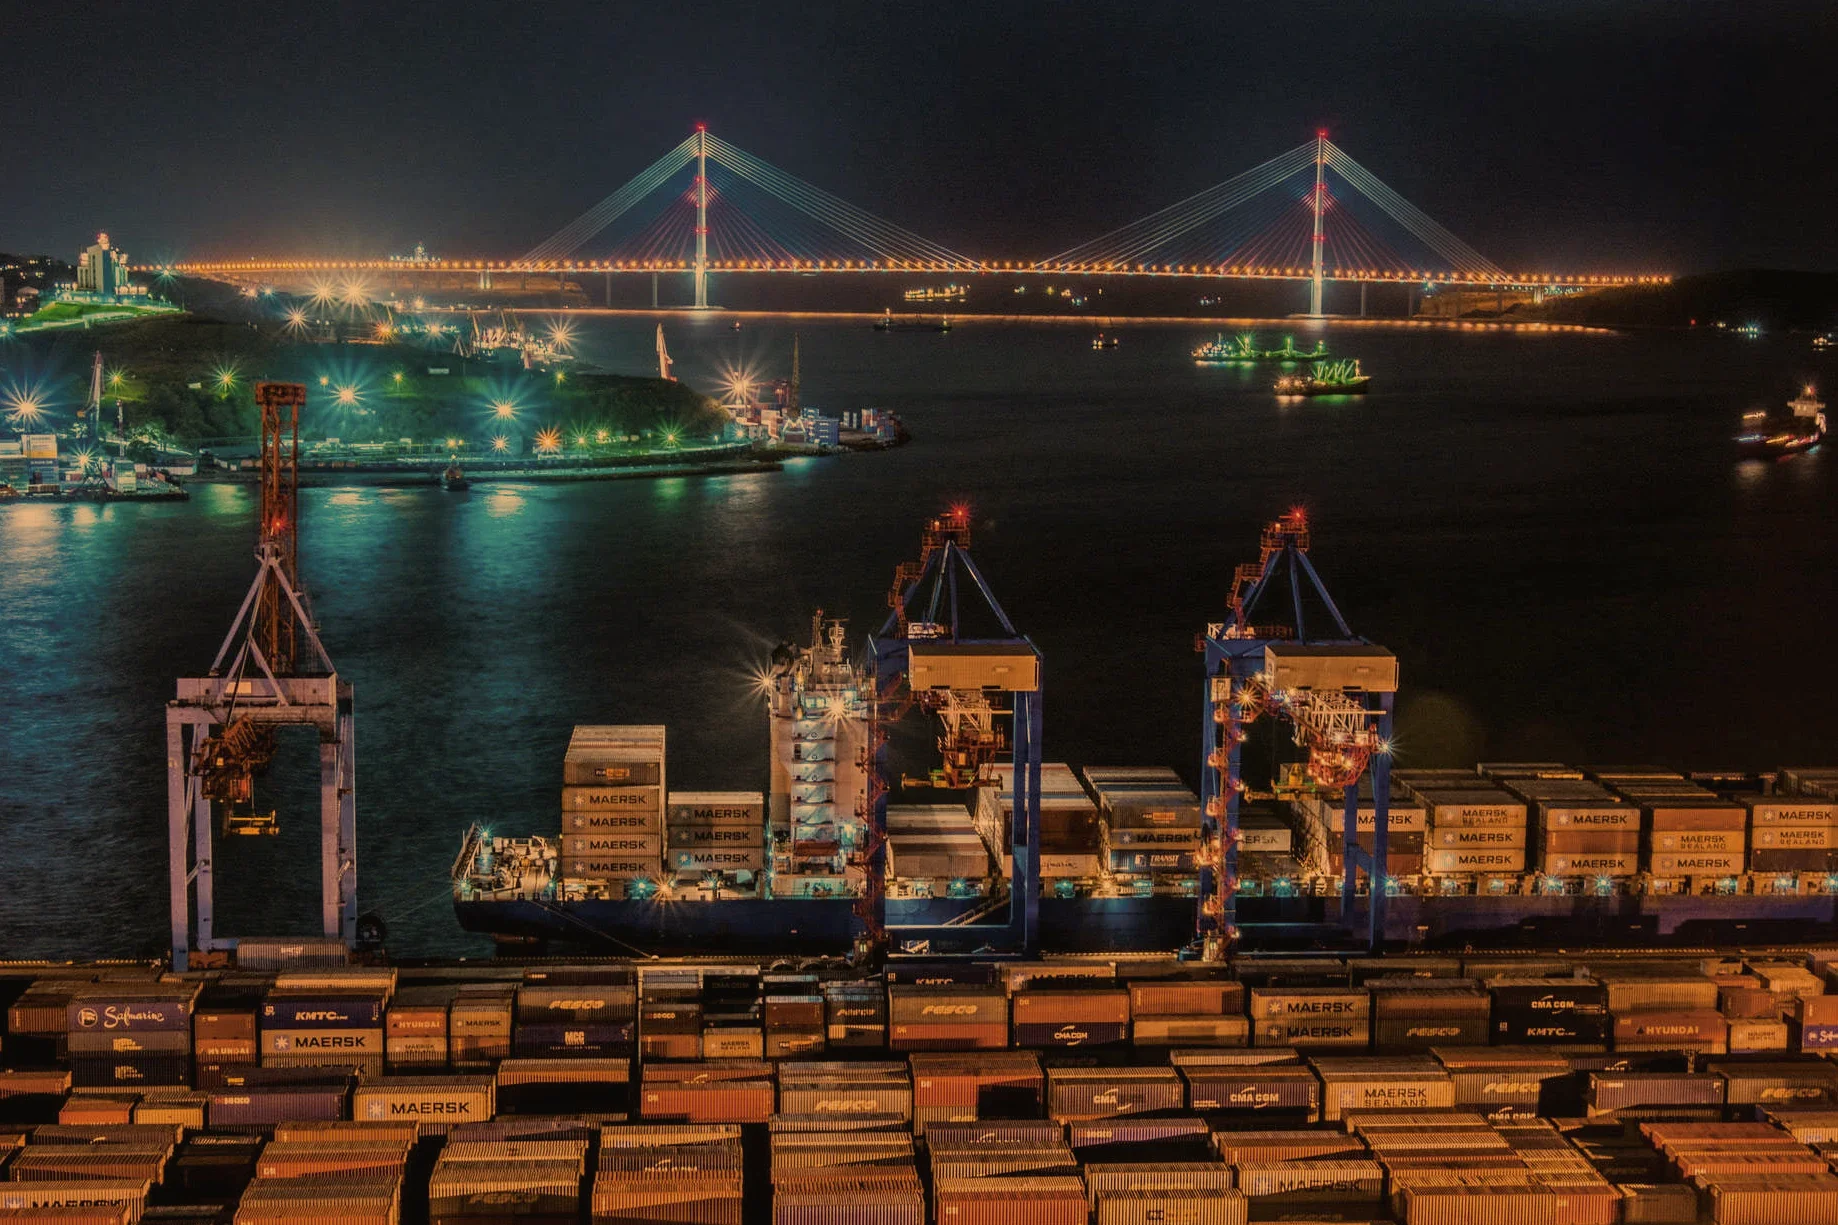
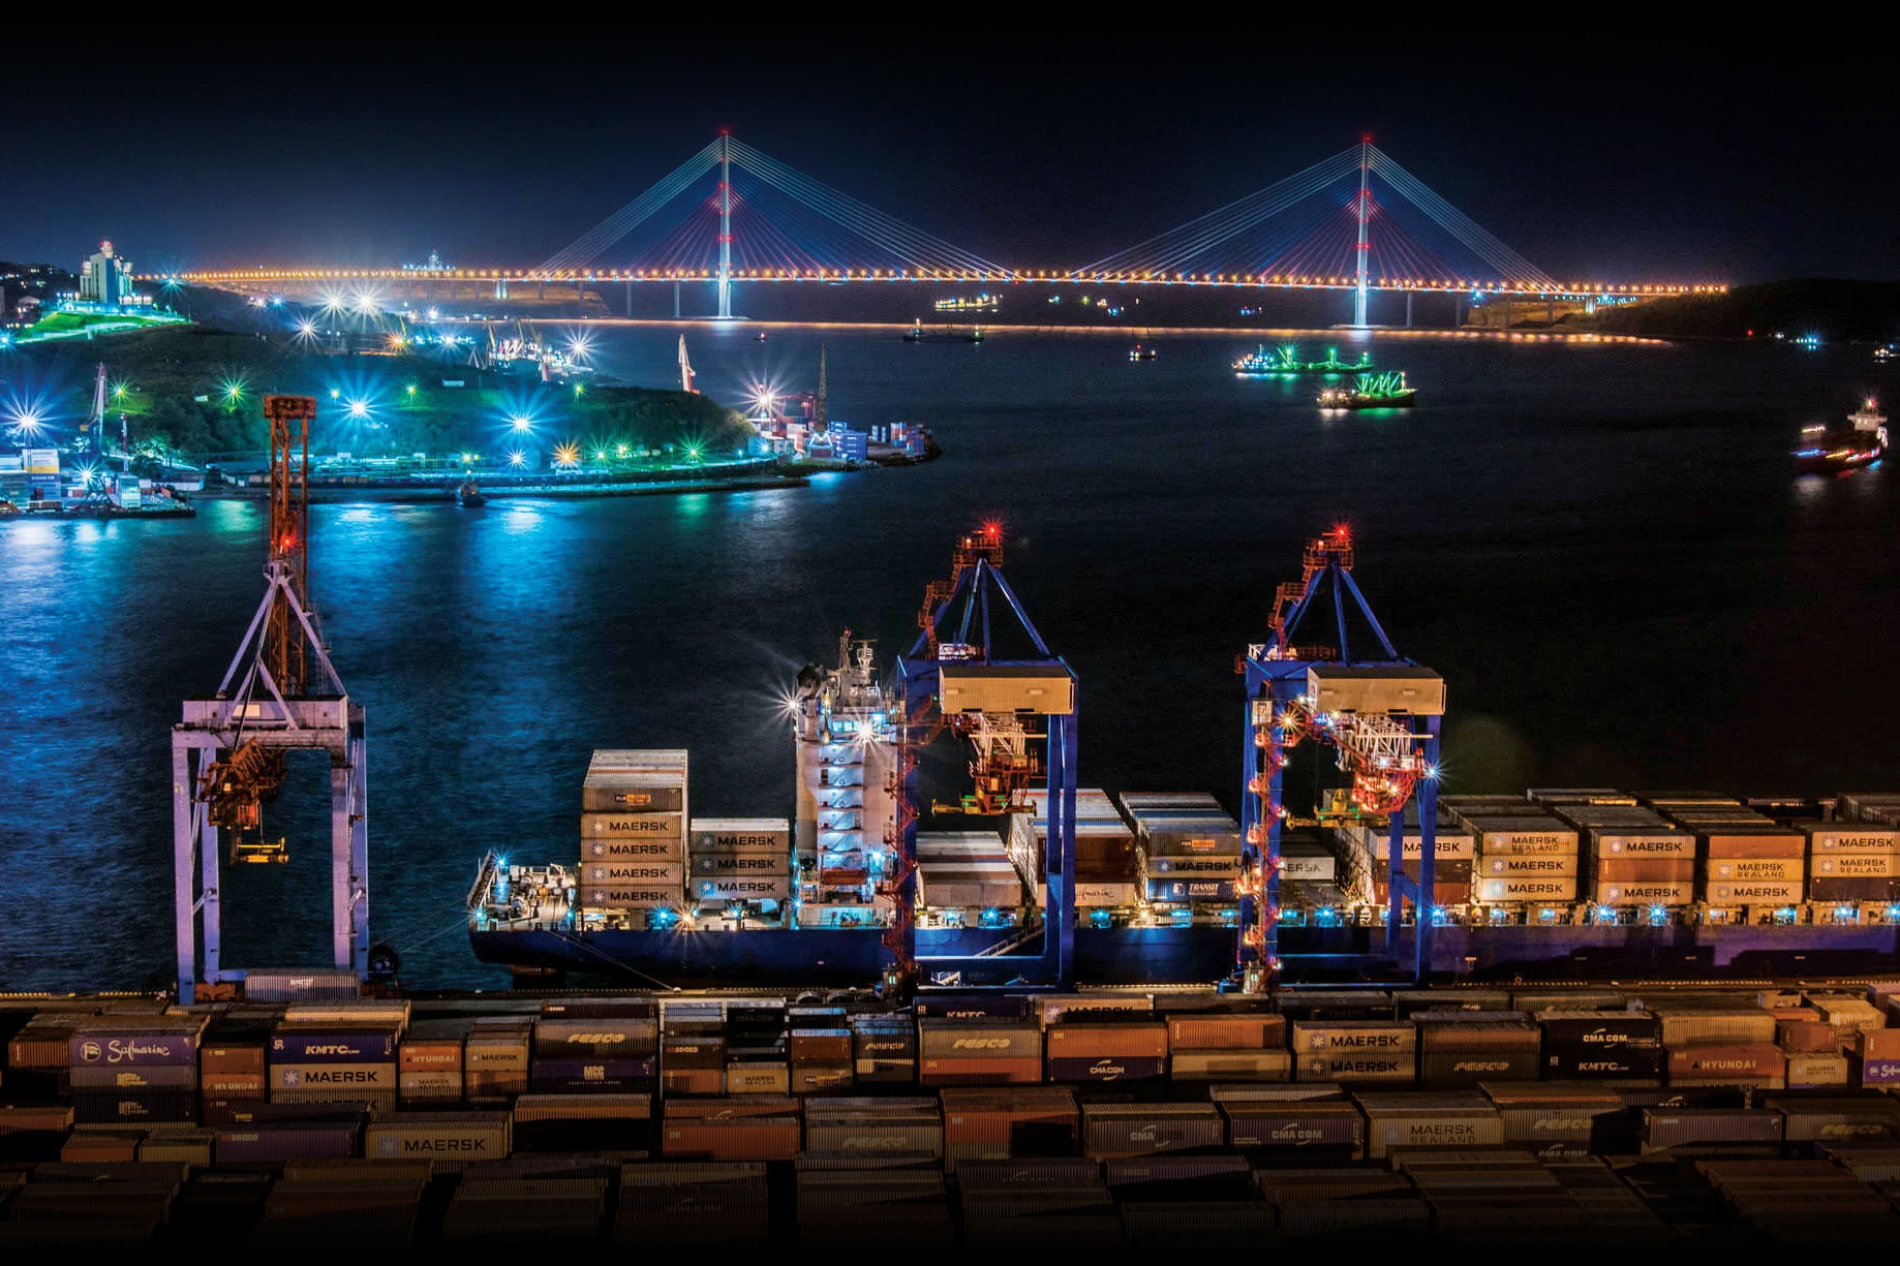
crorrection sections and all site

diff --git a/src/components/SectionWorkStages/SectionWorkStages.module.css b/src/components/SectionWorkStages/SectionWorkStages.module.css
@@ -4,6 +4,14 @@
   color: var(--white-color);
 }
 
+.background-div {
+  background-image: url('/FotoVlad.webp');
+  background-repeat: no-repeat;
+  background-position: center;
+  background-size: cover;
+  filter: saturate(85%);
+}
+
 .div-works-stages {
   display: flex;
   flex-direction: column;
@@ -11,21 +19,11 @@
   align-items: center;
 }
 
-.background-div {
-  margin-top: 150px;
-  position: absolute;
-  height: 135%;
-  min-width: 150%;
-  background: linear-gradient(to top, rgba(0, 0, 15, 0.01), rgba(0, 0, 0, 0.78)),
-    linear-gradient(to bottom, rgba(0, 0, 0, 0.01), rgba(10, 15, 20, 1)),
-    url('/public/FotoVlad.webp') center no-repeat;
-  background-size: cover;
-  filter: blur(1px);
-}
-
 .content-h2 {
   font-size: 52px;
   margin-bottom: 55px;
+  display: flex;
+  justify-content: center;
 }
 
 /*-------------------------TIMELINE-----------------------*/

diff --git a/src/components/SectionWorkStages/SectionWorkStages.tsx b/src/components/SectionWorkStages/SectionWorkStages.tsx
@@ -66,16 +66,18 @@ function SectionWorkStages() {
 
   return (
     <>
-      <section className={styles['section-works-stages']}>
+      <section
+        className={cn(styles['background-div'], styles['section-works-stages'])}
+      >
         <div
           className={cn(
             styles['div-works-stages'],
             stylesBootstrap['container-fluid']
           )}
         >
-          <h2 className={styles['content-h2']}>Этапы Работы</h2>
-          <div className={styles['background-div']}></div>
           <div className={styles['timeline']}>
+            <h2 className={styles['content-h2']}>Этапы Работы</h2>
+
             {timelineElements.map((element) => {
               return (
                 <div

diff --git a/src/components/SectionMaps/SectionMaps.tsx b/src/components/SectionMaps/SectionMaps.tsx
@@ -8,7 +8,11 @@ function SectionMaps() {
   return (
     <>
       <section
-        className={cn(stylesBootstrap['col-12'], styles['section-maps'])}
+        className={cn(
+          stylesBootstrap['col-12'],
+          styles['background-div'],
+          styles['section-maps']
+        )}
       >
         <div className={cn(stylesBootstrap['container-fluid'])}>
           <h2 className={cn(styles['map-h2'], stylesBootstrap['text-center'])}>
@@ -17,7 +21,6 @@ function SectionMaps() {
           <div className={cn(styles['advantages'])}>
             <SectionMapsContent />
           </div>
-          <div className={styles['background-div']}></div>
         </div>
       </section>
       <Separator apperance="dark" />

diff --git a/src/components/SectionMaps/SectionMaps.module.css b/src/components/SectionMaps/SectionMaps.module.css
@@ -1,19 +1,18 @@
+.background-div {
+  background-image: url('/logoBig.webp');
+  background-repeat: no-repeat;
+  background-position: center;
+  background-size: 250px;
+}
+
 .section-maps {
-  background-color: var(--blakus-color);
+  background-color: var(--bs-black);
   color: var(--white-color);
 }
 
 .map-h2 {
   font-size: 52px;
   margin-bottom: 45px;
-}
-
-.background-div {
-  position: absolute;
-  width: 350px;
-  height: 350px;
-  background: url('/public/logoBig.webp') center no-repeat;
-  background-size: 350px;
 }
 
 .advantages {

diff --git a/src/components/Separator/Separator.module.css b/src/components/Separator/Separator.module.css
@@ -1,8 +1,8 @@
 .custom {
-  height: 50px;
+  height: 40px;
   background: linear-gradient(
     to top,
-    rgba(0, 0, 0, 0.966) 40%,
+    rgba(0, 0, 0, 1) 40%,
     rgba(255, 0, 0, 0.777) 65%,
     var(--bs-white) 85%
   );
@@ -14,7 +14,7 @@
     to top,
     var(--bs-white) 40%,
     rgba(255, 0, 0, 0.777) 65%,
-    rgba(0, 0, 0, 0.966) 85%
+    rgba(0, 0, 0, 1) 85%
   );
 }
 

diff --git a/src/index.css b/src/index.css
@@ -6,7 +6,7 @@
   --text-color: #000000;
   --white-color: white;
   --redus-color: rgba(255, 0, 0, 1);
-  --blakus-color: rgba(0, 0, 0, 0.966);
+  --blakus-color: rgba(0, 0, 0, 1);
   --greus-color: rgb(93, 95, 95);
   --white-hover-box-shadow: rgba(255, 255, 255, 1) 0px 0px 20px 2px;
   --black-hover-box-shadow: rgba(0, 0, 0, 1) 0px 0px 20px 2px;
